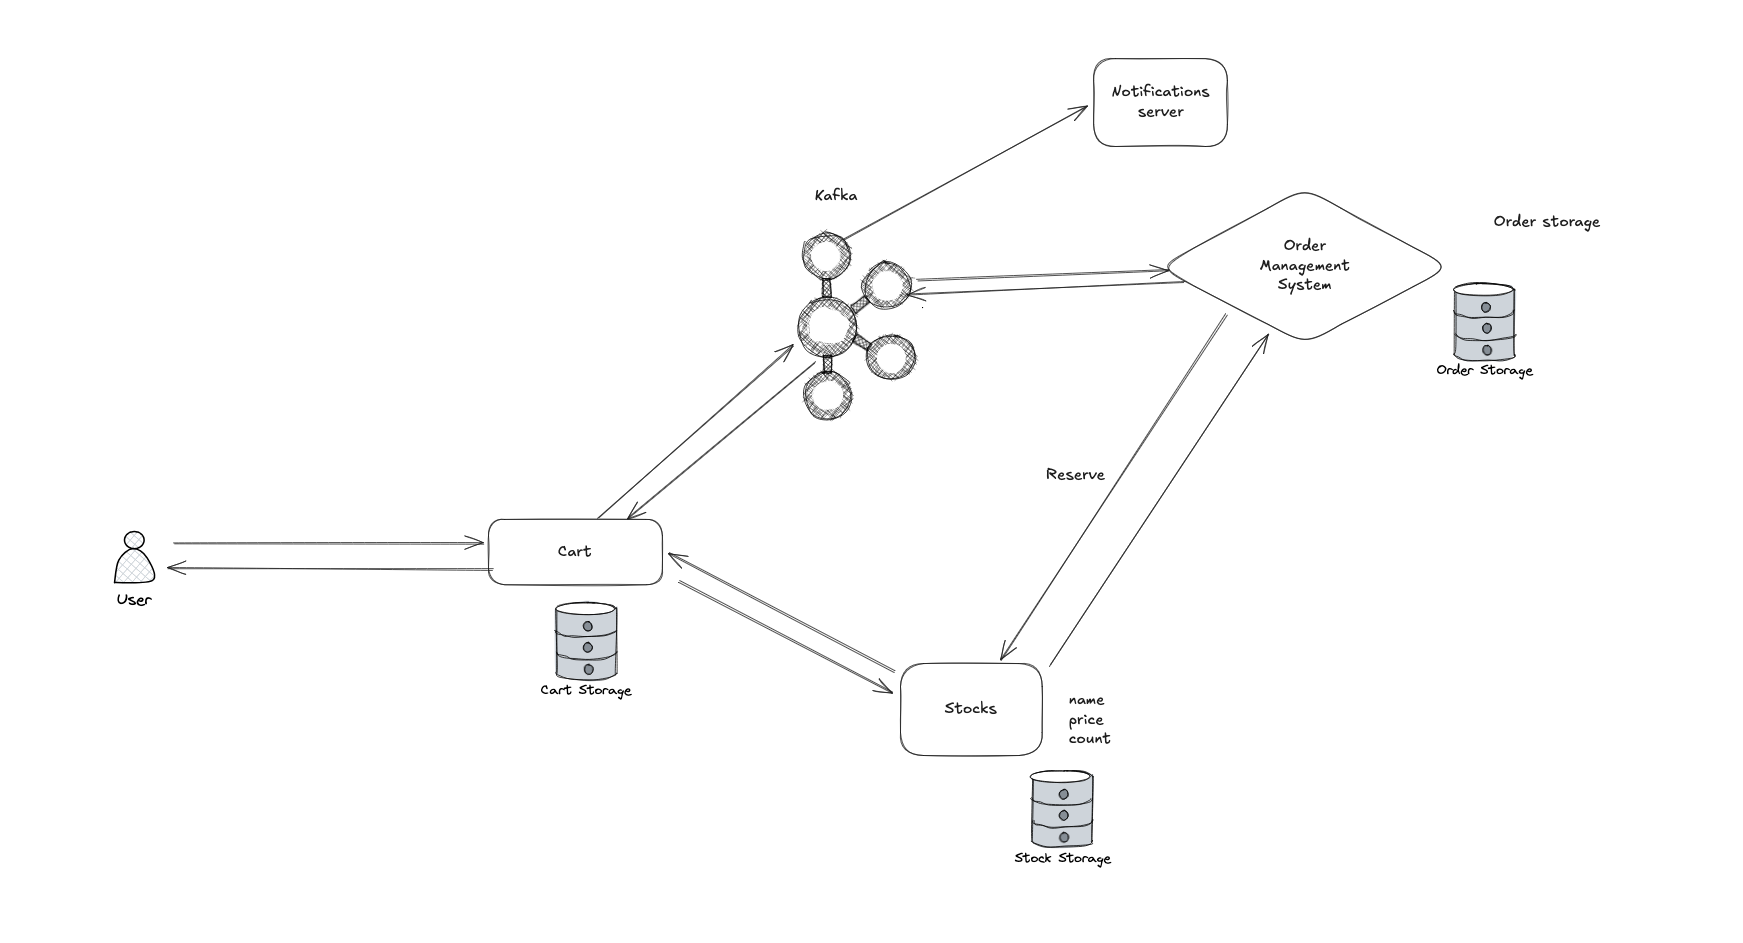
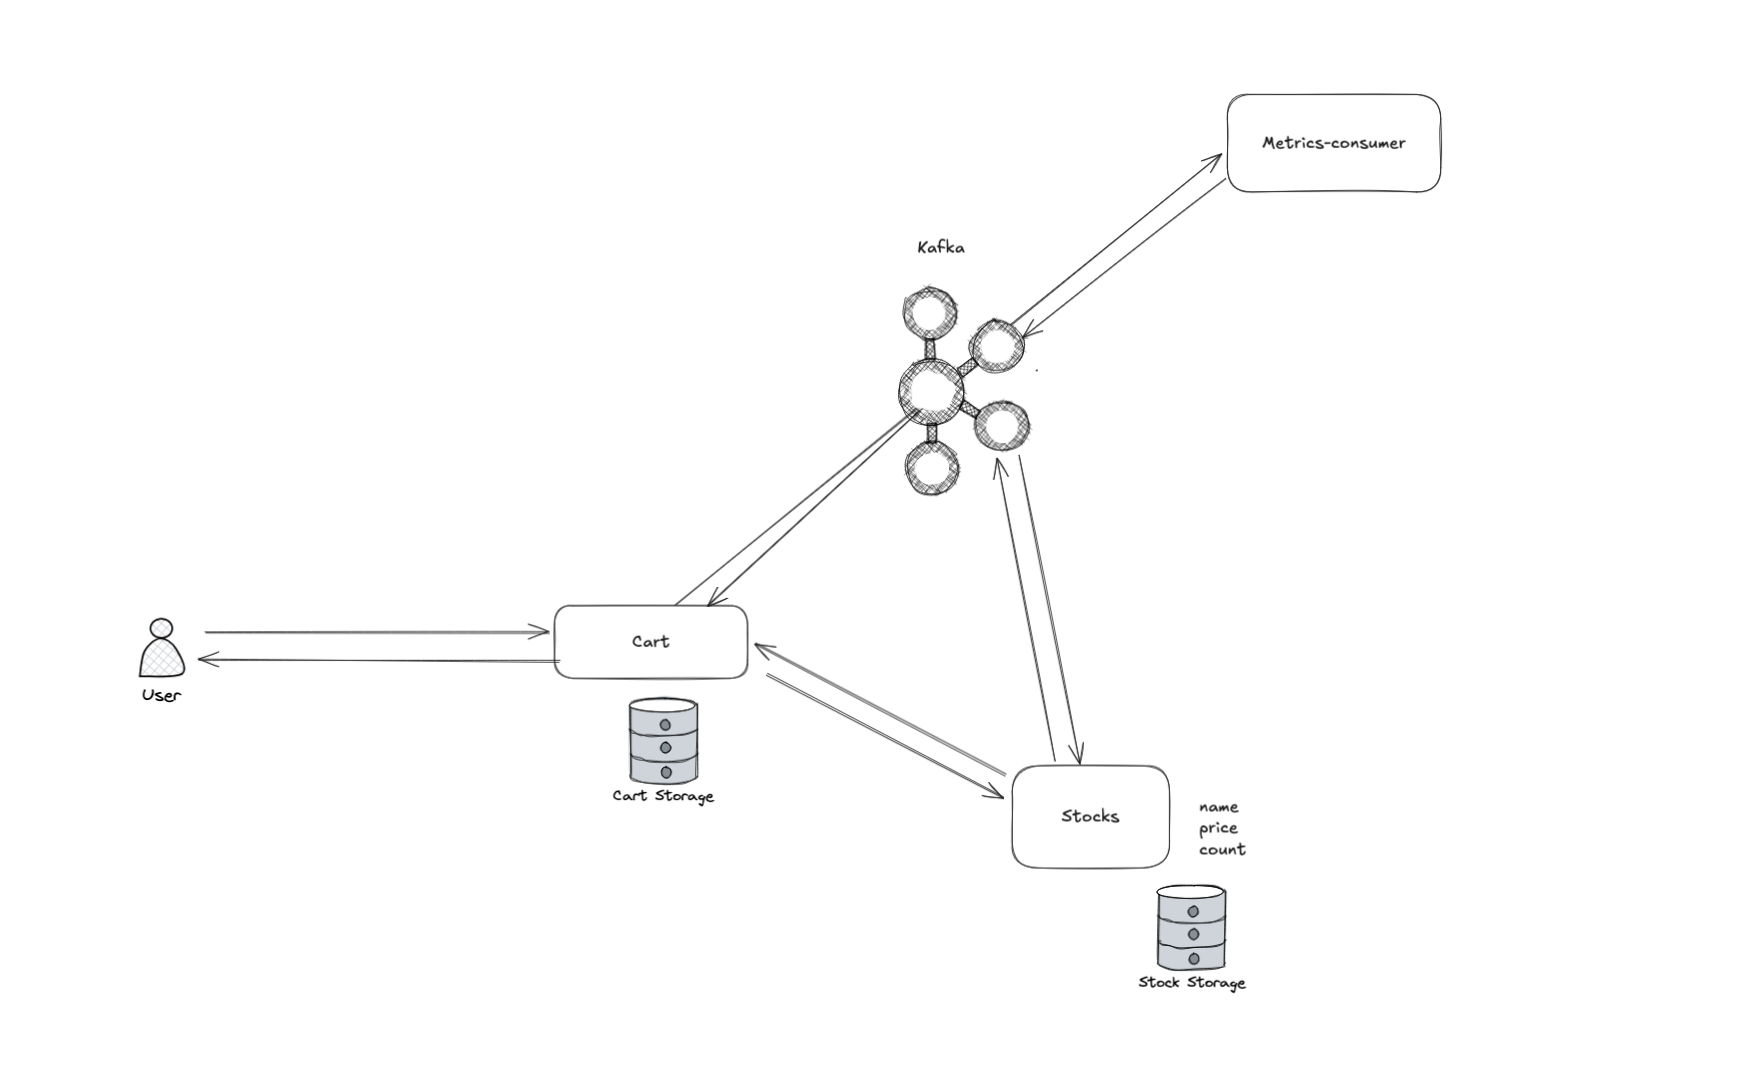
Homework 9

diff --git a/metrics-consumer/README.md b/metrics-consumer/README.md
@@ -1,0 +1,189 @@
+
+# Homework 9: Kafka Metrics with Partitioned Events and Replication
+
+## 📝 Goal
+Build a small distributed system with:
+
+- `cart-service` and `stock-service` producing structured metrics events to Kafka.
+- `metrics-consumer` that consumes and logs these events.
+  - Have its own Dockerfile.
+  - Be built into a Docker image.
+  - Be pushed to Docker Hub as a public image, so that your docker-compose.yml can pull it by tag (e.g. yourname/metrics-consumer:hw9).
+- Kafka topic with **2 partitions and replication factor 2** running on **2 Kafka brokers**.
+- Using Docker Compose for Kafka (in a **separate Compose file with shared network**).
+
+---
+
+## 📂 Project structure
+
+```
+.
+├── kafka/
+│   └── docker-compose.yml   
+│     # Kafka + Zookeeper cluster (2 brokers) + kafka-ui
+│   └── Dockerfile   
+├── cart/
+│
+├── stock/
+│   
+├── metrics-consumer/
+├── go.work                 # Go workspace to link all modules
+├── README.md
+```
+
+---
+
+## ⚙ Kafka setup
+- Located under `kafka/docker-compose.yml`.
+- Runs:
+  - 2 Kafka brokers
+  - 1 Zookeeper
+  - kafka-ui
+- Creates topic `metrics` with:
+  - **2 partitions** (partition 0 for cart events, 1 for stock events)
+  - **replication.factor=2**
+
+### 📌 Shared network
+Kafka Compose uses:
+```yaml
+networks:
+  shared-net:
+    external: true
+```
+so your services can join this `shared-net` and reach Kafka by:
+```
+kafka1:9092, kafka2:9092
+```
+
+---
+
+## 🚀 Services
+
+| Service           | Description                                    | Writes to Kafka        |
+|-------------------|------------------------------------------------|-------------------------|
+| `cart-service`    | Simulates adding items to cart                 | Always writes to **partition 0** |
+| `stock-service`   | Simulates SKU creation & stock changes         | Always writes to **partition 1** |
+| `metrics-consumer`| Subscribes to `metrics` topic, logs all events | Reads both partitions |
+
+All services run in the same `shared-net`.
+
+---
+
+## 📚 Event structure
+All Kafka messages must be JSON in this format:
+
+| Field       | Type   | Description                           |
+|-------------|--------|---------------------------------------|
+| `type`      | string | Event type, e.g. `cart_item_added`    |
+| `service`   | string | `"cart"` or `"stock"`                 |
+| `timestamp` | string | ISO8601 UTC timestamp                 |
+| `payload`   | object | Event-specific data                  |
+
+### 🛒 Cart events
+#### `cart_item_added`
+```json
+{
+  "type": "cart_item_added",
+  "service": "cart",
+  "timestamp": "2025-07-08T19:15:32Z",
+  "payload": {
+    "cartId": "xyz123",
+    "sku": "A123",
+    "count": 2,
+    "status": "success"
+  }
+}
+```
+#### `cart_item_failed`
+```json
+{
+  "type": "cart_item_failed",
+  "service": "cart",
+  "timestamp": "2025-07-08T19:16:04Z",
+  "payload": {
+    "cartId": "xyz123",
+    "sku": "A123",
+    "count": 5,
+    "status": "failed",
+    "reason": "not enough stock"
+  }
+}
+```
+
+### 📦 Stock events
+#### `sku_created`
+```json
+{
+  "type": "sku_created",
+  "service": "stock",
+  "timestamp": "2025-07-08T19:20:17Z",
+  "payload": {
+    "sku": "A123",
+    "price": 12.5,
+    "count": 100
+  }
+}
+```
+#### `stock_changed`
+```json
+{
+  "type": "stock_changed",
+  "service": "stock",
+  "timestamp": "2025-07-08T19:21:50Z",
+  "payload": {
+    "sku": "A123",
+    "count": 12,
+    "price": 12.5
+  }
+}
+```
+
+---
+
+## 🚀 How to run
+1⃣ **Start Kafka cluster**
+```bash
+cd kafka
+docker-compose up -d
+```
+Creates brokers, zookeeper, topic `metrics` with 2 partitions & replication=2.
+
+2⃣ **Start services**
+Each service’s Dockerfile joins the same `shared-net`, connects to Kafka by:
+```
+KAFKA_BROKERS=kafka1:9092,kafka2:9092
+TOPIC=metrics
+```
+```bash
+docker-compose up -d cart stock metrics-consumer
+```
+(Or use `docker run` manually with `--network shared-net`).
+
+---
+
+## 🔍 How to test replication
+- After all services are producing & consuming:
+```bash
+docker stop kafka1
+```
+- You should still see metrics flowing thanks to replication on `kafka2`.
+
+---
+
+## 📑 What to submit
+✅ Source code for:
+- `cart-service`
+- `stock-service`
+- `metrics-consumer`
+- `kafka/docker-compose.yml` for brokers + topic creation
+
+✅ A short demo log showing:
+- `cart` writes to partition 0, `stock` writes to partition 1
+- `metrics-consumer` prints all events
+
+✅**Note**: Please make sure to update or fix your existing tests after adding the Kafka integration.
+
+---
+
+
+🎉 **Good luck!**  

diff --git a/README.md b/README.md
@@ -97,15 +97,19 @@ I should be able to pull your image using:
 ## Homework 8
 
 ### Requirements:
-- Cover the handlers and use cases with unit tests. Minimum coverage: 40%.
+- Cover the handlers and use cases with unit tests. Minimum coverage: 40%. 
 - Cover the handlers with integration tests. Minimum test cases: successful execution and (receiving an error due to invalid input data or receiving not found error).
 ```bash
   INTEGRATION_TEST=1
 ```
 Prepare a Makefile for each service that includes the following commands:
 
-- starting the test environment using docker-compose,
-- running integration tests,
-- running unit tests.
+  - starting the test environment using docker-compose, 
+  - running integration tests, 
+  - running unit tests.
 
 After completing all changes, don’t forget to update your Docker Hub images.
+
+
+## Homework 9
+- [Kafka-service](metrics-consumer/README.md)
